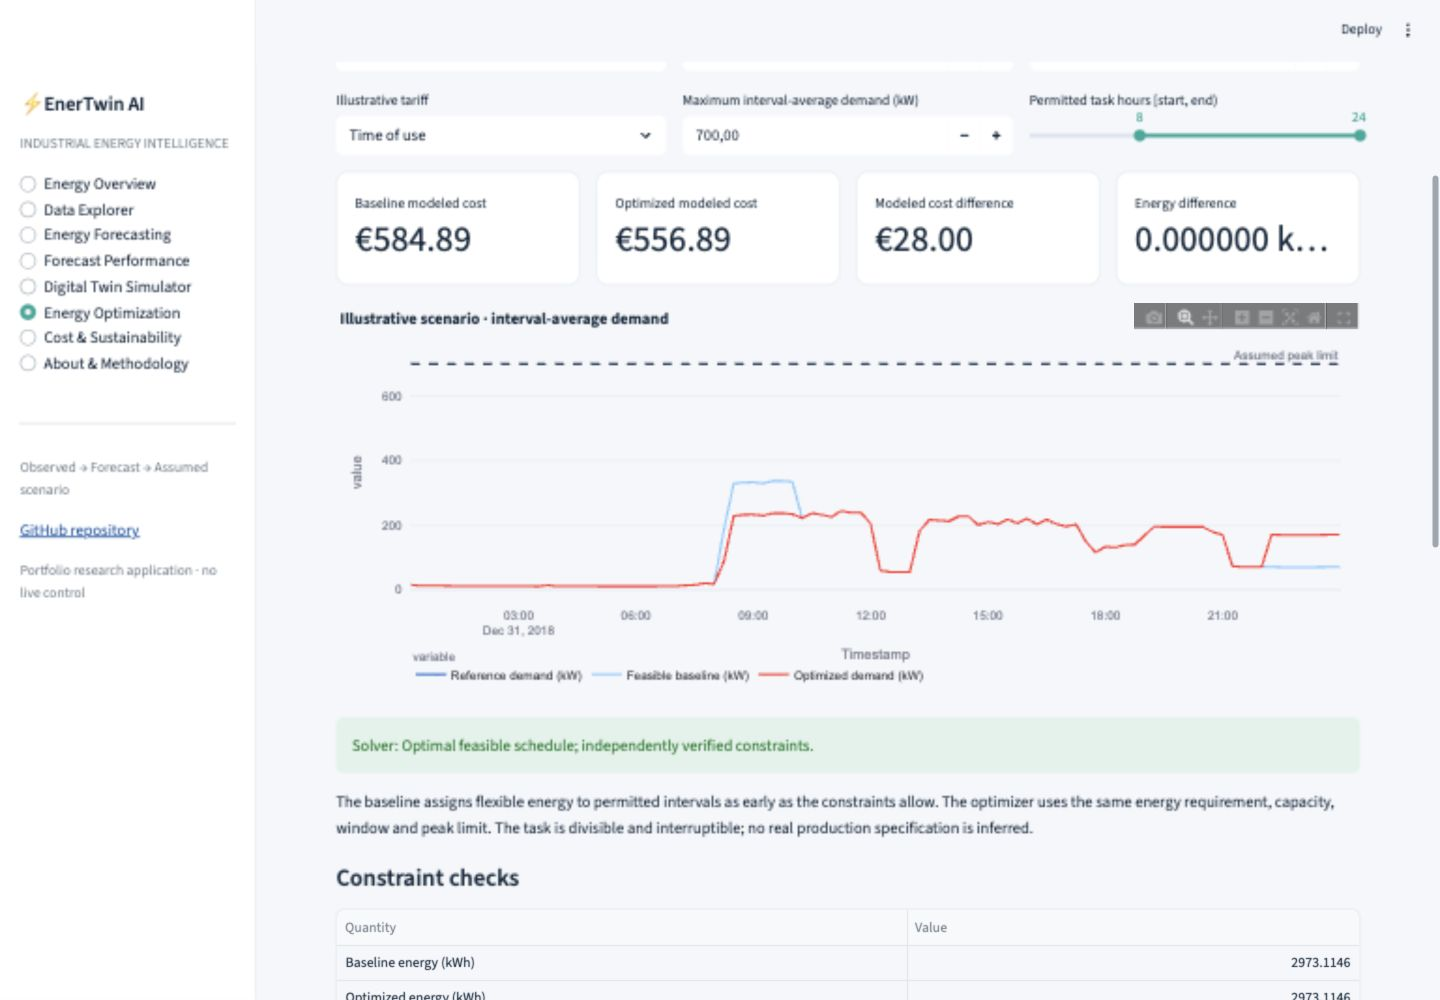
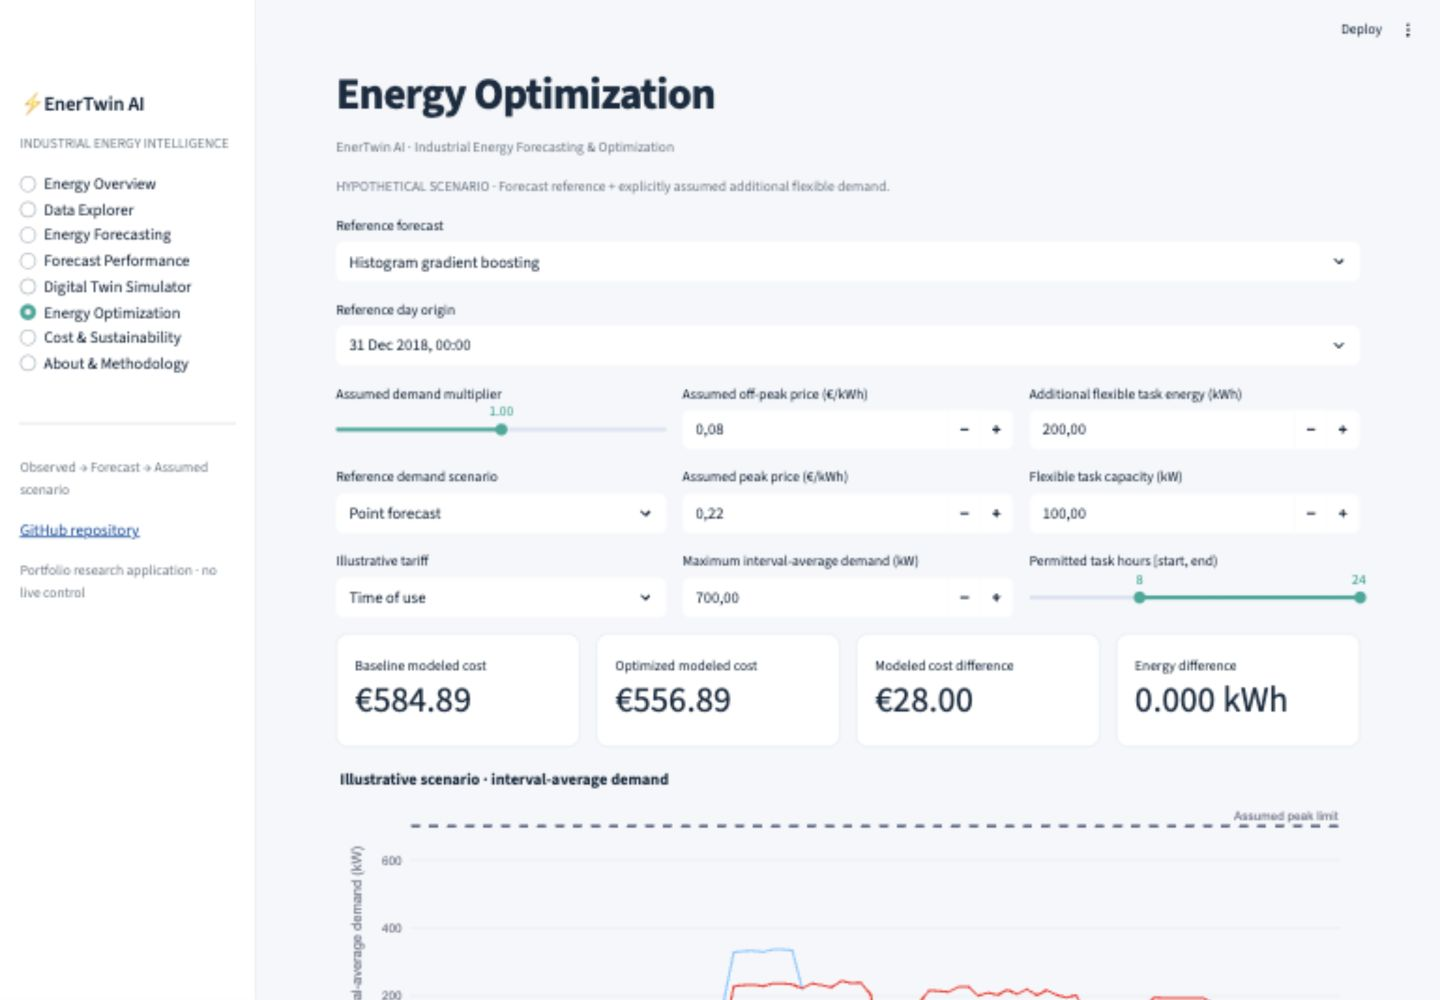
Document verified CI and capture final application views

diff --git a/docs/FINAL_REVIEW.md b/docs/FINAL_REVIEW.md
@@ -18,6 +18,6 @@ The operations model compares two feasible schedules under the same assumptions.
 
 ## Delivery checks
 
-Use `python -m pytest -q` and `python -m ruff check .` to reproduce the automated checks. GitHub Actions runs dependency installation, lint and deterministic tests without raw downloads. The complete local suite passed **59 tests**, and Ruff passed, on Python **3.12.12**. CI status is verified separately after publication; local passing checks do not imply a completed remote CI run. Application screenshots document the locally running interface, not public hosting.
+Use `python -m pytest -q` and `python -m ruff check .` to reproduce the automated checks. GitHub Actions runs dependency installation, lint and deterministic tests without raw downloads. The complete local suite passed **59 tests**, and Ruff passed, on Python **3.12.12**. [GitHub Actions run 38372415422](https://github.com/Priynka-Roy/enertwin-industrial-energy-digital-twin/actions/runs/38372415422) passed on Python 3.11 and 3.12: Ruff passed, with 58 tests passing and one raw-source audit intentionally skipped on each runner. CI does not download raw telemetry; local reproduction includes that additional audit. Application screenshots document the locally running interface, not public hosting.
 
 Source attribution is retained in README, data card and the application. Raw data and environment files are ignored, no credential is required for startup, and publication targets a separate public EnerTwin repository without changing IndustrialGuard AI.

diff --git a/docs/DEPLOYMENT.md b/docs/DEPLOYMENT.md
@@ -11,7 +11,7 @@ python -m pip install -e '.[dev]'
 streamlit run streamlit_app.py --server.port 8502
 ```
 
-Committed lightweight data, model/evaluation artifacts and scenario outputs support startup without raw data or retraining. Relative resources resolve from project paths. Dependency versions are pinned in `requirements.txt`; the local tested runtime is Python 3.12.12; Python 3.11 is the declared minimum, not a separately tested runtime. Cache loading and repeated simulation inputs in the application.
+Committed lightweight data, model/evaluation artifacts and scenario outputs support startup without raw data or retraining. Relative resources resolve from project paths. Dependency versions are pinned in `requirements.txt`; the local tested runtime is Python 3.12.12; Python 3.11 is the declared minimum, and application/unit/integration CI passed on both Python 3.11 and 3.12. Full artifact reproduction was run locally on Python 3.12.12. Cache loading and repeated simulation inputs in the application.
 
 For later Streamlit Community Cloud deployment, choose public repository `Priynka-Roy/enertwin-industrial-energy-digital-twin`, branch `main`, entry point `streamlit_app.py`, and Python 3.12. Deploy with committed artifacts and no private paths or credentials. Account sign-in and platform terms are completed by the user when hosting begins. Verify every page and a reachable public URL before adding a live-demo badge.
 

diff --git a/docs/EXPERIMENT_RESULTS.md b/docs/EXPERIMENT_RESULTS.md
@@ -70,3 +70,7 @@ Autocorrelation is 0.913 at one interval, 0.606 at one day and 0.677 at one week
 | 1.2 | Infeasible | Infeasible | Infeasible |
 
 **Interpretation:** with 20% larger background, its own 222.53 kW peak violates even the 220 kW limit; workload timing cannot fix a noncontrollable background. With 20% smaller background, all caps are feasible. **Limits:** deterministic forecast caps do not guarantee realized peaks under forecast error. This scenario diagnoses feasibility; it does not establish real equipment response or demand-charge savings. These results are in `artifacts/scenarios.json` and can be reproduced directly through `simulate_scenario`.
+
+## Variation across daily forecast origins
+
+Selected boosting daily MAE has median 10.408 kWh/interval, interquartile range 7.028–13.816, and observed range 1.669–28.180 across the 92 held-out days. This describes variability across dependent days; it is not an independent-sample confidence interval. These daily error records are retained in `artifacts/metrics.json`.

diff --git a/README.md b/README.md
@@ -2,6 +2,8 @@
 
 **Industrial Energy Forecasting, Digital Twin & Intelligent Operations Optimization**
 
+[![Project verification](https://github.com/Priynka-Roy/enertwin-industrial-energy-digital-twin/actions/workflows/ci.yml/badge.svg)](https://github.com/Priynka-Roy/enertwin-industrial-energy-digital-twin/actions/workflows/ci.yml)
+
 [Repository](https://github.com/Priynka-Roy/enertwin-industrial-energy-digital-twin) · [Open the local app](http://localhost:8502) · [Methodology](docs/METHODOLOGY.md) · [Computed results](docs/EXPERIMENT_RESULTS.md)
 
 Energy planners need credible forecasts and clear scheduling trade-offs. EnerTwin AI analyzes real steel-facility electricity, evaluates complete 24-hour forecasts, and allocates explicitly hypothetical flexible work under energy, availability and power constraints. It distinguishes observed data, forecasts and modeled costs throughout the application.
